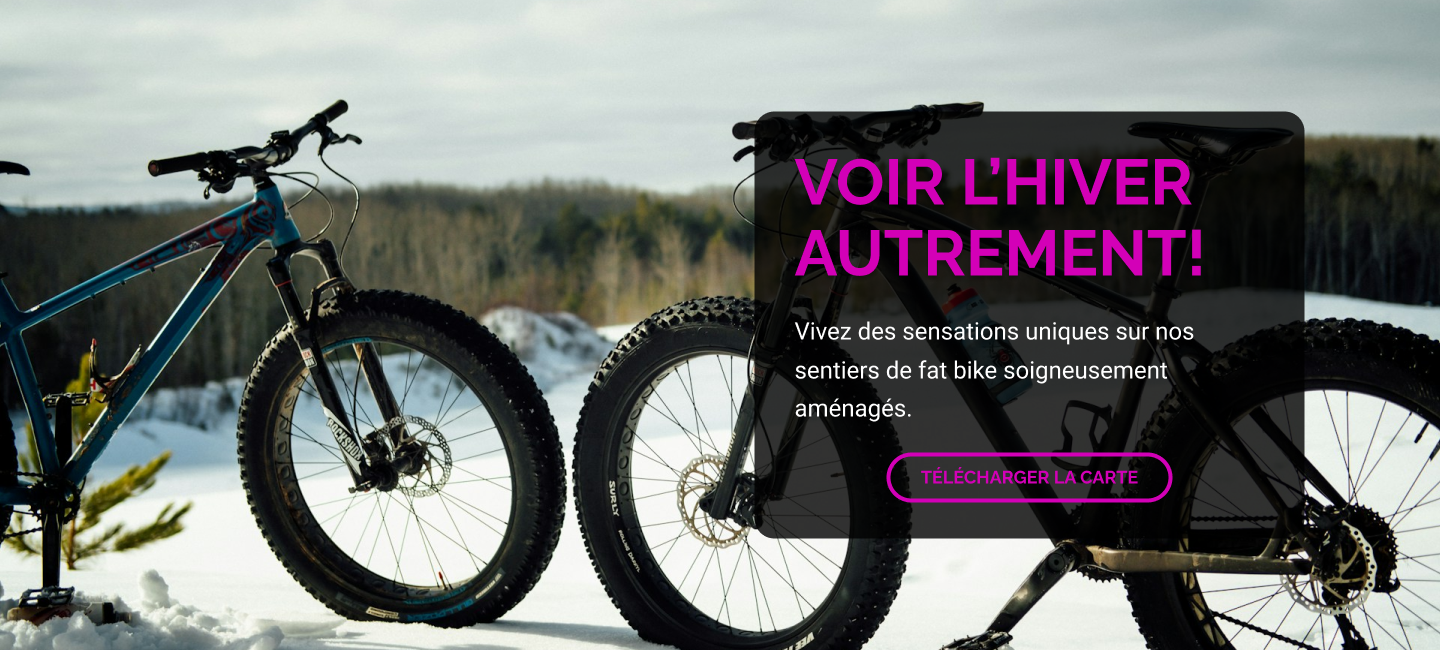
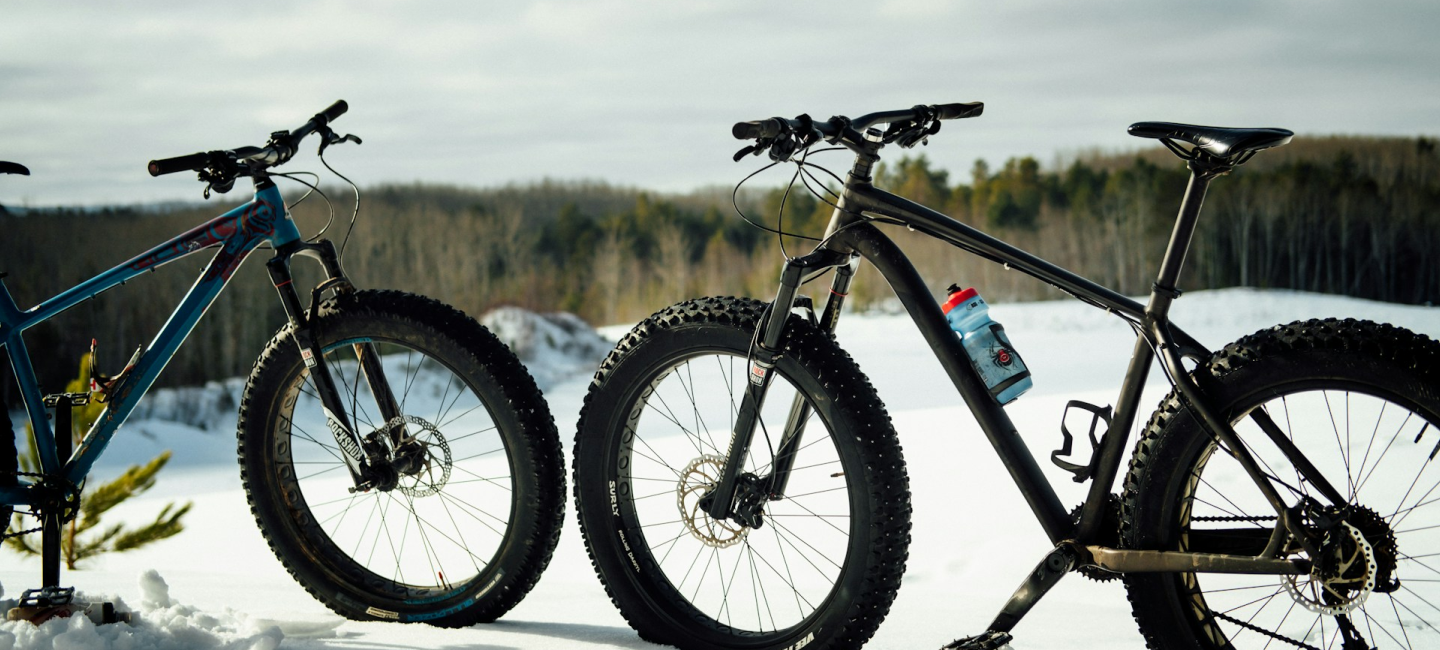
nav fini

Changed region(s): [[0.5, 0.1538, 0.9062, 0.8308]]

diff --git a/css/styles.css b/css/styles.css
@@ -51,21 +51,19 @@ header{
     position: fixed;
     top: 0;
     left: 0;
-    
+    width: 100%;
+    z-index: 999;
 }
 
 header .nav{
     display: flex;
     justify-content: space-between;
     align-items: center;
-
-    padding: 21px 0;
 }
 header ul{
     display: flex;
     gap: 40px;
     list-style: none;
-    
 }
 
 header a{
@@ -75,5 +73,10 @@ header a{
 
 header a:hover{
     color: #D300B7;
+}
 
+/*hero*/
+
+.hero{
+    background: url("../images/hero.png") no-repeat center;
 }

diff --git a/index.html b/index.html
@@ -32,8 +32,8 @@
     </header>
 
     <section>
-        <div class="wrapper">
-            <div class="hero">
+        <div class="hero">
+            <div class="wrapper">
                 <h1>Voir l’hiver autrement!</h1>
                 <p>Vivez des sensations uniques sur nos sentiers de fat bike soigneusement aménagés.</p>
                 <div class="boutton2">
